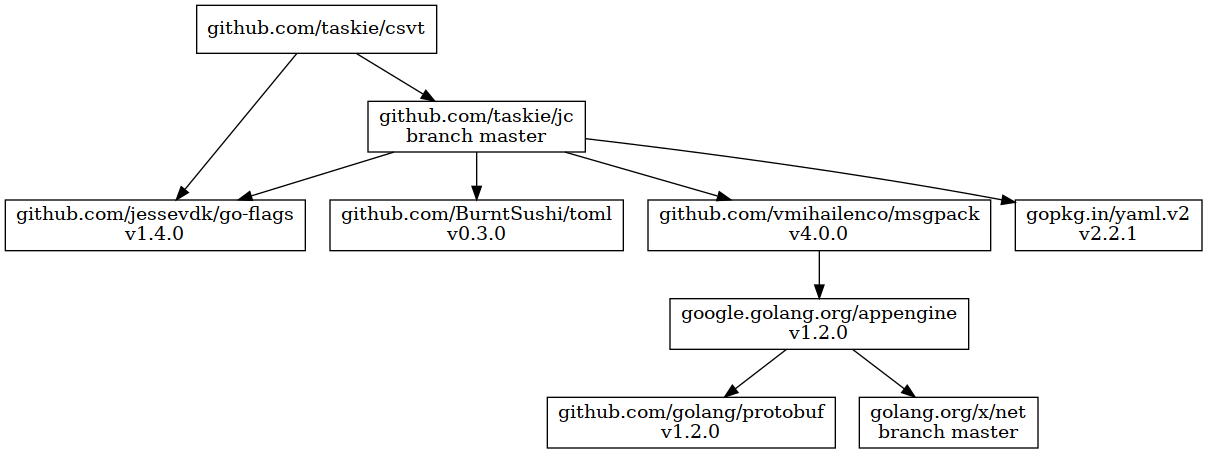
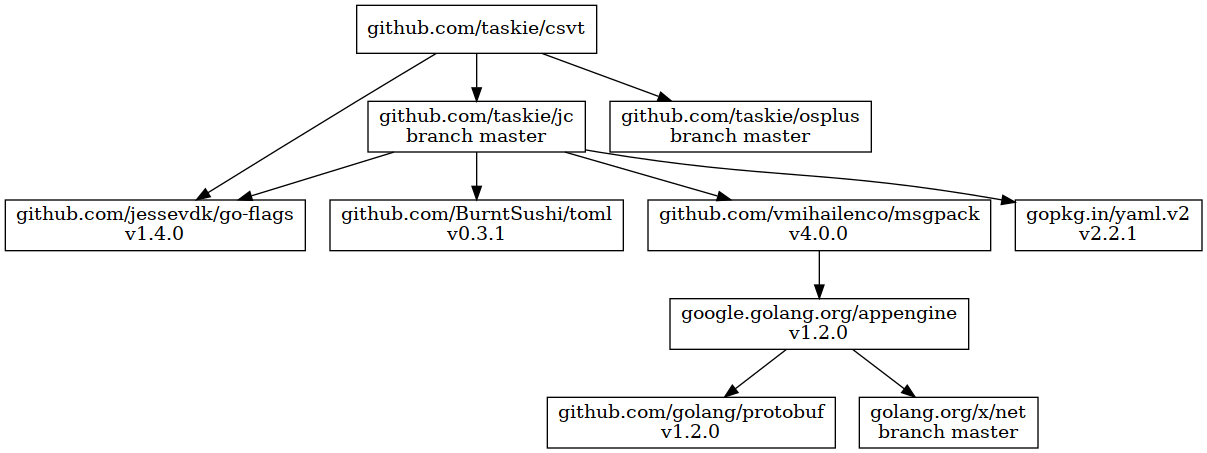
get input/output file types from file extensions

diff --git a/cli/cli.go b/cli/cli.go
@@ -1,10 +1,16 @@
 package cli
 
 import (
+	"bufio"
 	"fmt"
 	"github.com/jessevdk/go-flags"
 	"github.com/taskie/csvt"
+	"github.com/taskie/osplus"
+	"io"
+	"io/ioutil"
 	"os"
+	"path/filepath"
+	"strings"
 )
 
 type Options struct {
@@ -28,9 +34,26 @@ func firstRune(s string) (rune, error) {
 	panic("unreachable")
 }
 
+func pathToType(fpath string) string {
+	ext := filepath.Ext(fpath)
+	switch strings.ToLower(ext) {
+	case ".csv":
+		return "csv"
+	case ".json":
+		return "json"
+	case ".yaml", ".yml":
+		return "yaml"
+	case ".msgpack":
+		return "msgpack"
+	default:
+		return ""
+	}
+
+}
+
 func Main() {
 	var opts Options
-	_, err := flags.ParseArgs(&opts, os.Args)
+	args, err := flags.ParseArgs(&opts, os.Args)
 	if opts.Version {
 		if opts.Verbose {
 			fmt.Println("Version: ", csvt.Version)
@@ -52,22 +75,74 @@ func Main() {
 		fmt.Fprintln(os.Stderr, err)
 		os.Exit(1)
 	}
+	inputPath := ""
+	inputExtType := ""
+	if len(args) > 1 {
+		inputPath = args[1]
+		inputExtType = pathToType(inputPath)
+	}
+	outputPath := ""
+	outputExtType := ""
+	if len(args) > 2 {
+		outputPath = args[2]
+		outputExtType = pathToType(outputPath)
+	}
 	app := csvt.NewApplication(opts.Mode)
 	app.FromDelimiter = fromDelimiter
 	app.ToDelimiter = toDelimiter
 	if opts.FromType != "" {
 		app.FromType = opts.FromType
+	} else if inputExtType != "" {
+		app.FromType = inputExtType
 	} else if opts.Mode == "unmap" {
 		app.FromType = "json"
 	}
 	if opts.ToType != "" {
 		app.ToType = opts.ToType
+	} else if outputExtType != "" {
+		app.ToType = outputExtType
 	} else if opts.Mode == "map" {
 		app.ToType = "json"
 	}
-	err = app.Run(os.Stdin, os.Stdout)
-	if err != nil {
-		fmt.Fprintln(os.Stderr, err)
-		os.Exit(1)
+	var r io.Reader
+	if inputPath == "" || inputPath == "-" {
+		r = bufio.NewReader(os.Stdin)
+	} else {
+		file, err := os.Open(inputPath)
+		if err != nil {
+			fmt.Fprintln(os.Stderr, err)
+			os.Exit(1)
+		}
+		defer file.Close()
+		r = bufio.NewReader(file)
+	}
+	if outputPath == "" || outputPath == "-" {
+		err = app.Run(r, os.Stdout)
+		if err != nil {
+			fmt.Fprintln(os.Stderr, err)
+			os.Exit(1)
+		}
+	} else {
+		tmpFile, err := ioutil.TempFile("", "csvt-")
+		if err != nil {
+			fmt.Fprintln(os.Stderr, err)
+			os.Exit(1)
+		}
+		defer os.Remove(tmpFile.Name())
+		err = func() error {
+			defer tmpFile.Close()
+			w := bufio.NewWriter(tmpFile)
+			defer w.Flush()
+			return app.Run(r, w)
+		}()
+		if err != nil {
+			fmt.Fprintln(os.Stderr, err)
+			os.Exit(1)
+		}
+		err = osplus.Copy(tmpFile.Name(), outputPath)
+		if err != nil {
+			fmt.Fprintln(os.Stderr, err)
+			os.Exit(1)
+		}
 	}
 }

diff --git a/README.md b/README.md
@@ -1,13 +1,17 @@
 # csvt
 
-transform CSV
+transform CSV in various ways
 
 ## usage
 
 ### convert
 
 ```sh
+csvt foo.csv foo.json
+# or
 csvt -t json <foo.csv >foo.json
+# or
+csvt - foo.json <foo.csv
 ```
 
 #### foo.csv (input)
@@ -28,13 +32,13 @@ j,k,l
 ### convert (reverse)
 
 ```sh
-csvt -f json <foo.json >foo.csv
+csvt foo.json foo.csv
 ```
 
 ### convert (delimiter)
 
 ```sh
-csvt -d ',' -D '|' <foo.csv >foo_pipe.csv
+csvt -d ',' -D '|' foo.csv foo_pipe.csv
 ```
 
 #### foo_pipe.csv (output)
@@ -49,7 +53,7 @@ j|k|l
 ### transpose
 
 ```sh
-csvt -m transpose <foo.csv >foo_t.csv
+csvt -m transpose foo.csv foo_t.csv
 ```
 
 #### foo_t.csv (output)
@@ -63,7 +67,7 @@ C,f,i,l
 ### map
 
 ```sh
-csvt -m map <foo.csv >foo_map.json
+csvt -m map foo.csv foo_map.json
 ```
 
 #### foo_map.json (output)
@@ -75,7 +79,7 @@ csvt -m map <foo.csv >foo_map.json
 ### unmap
 
 ```sh
-csvt -m unmap <foo_map.json >foo.csv
+csvt -m unmap foo_map.json foo.csv
 ```
 
 ## dependency
